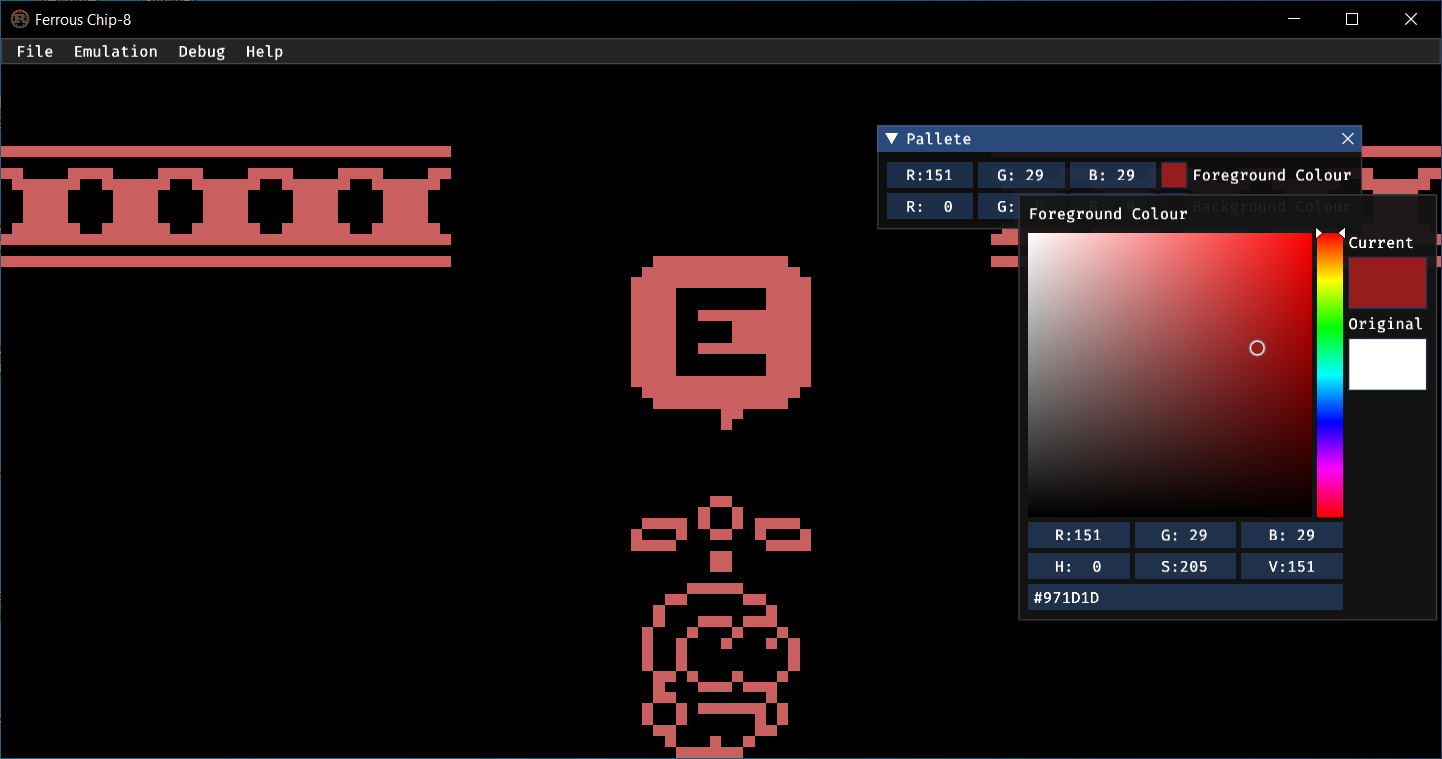
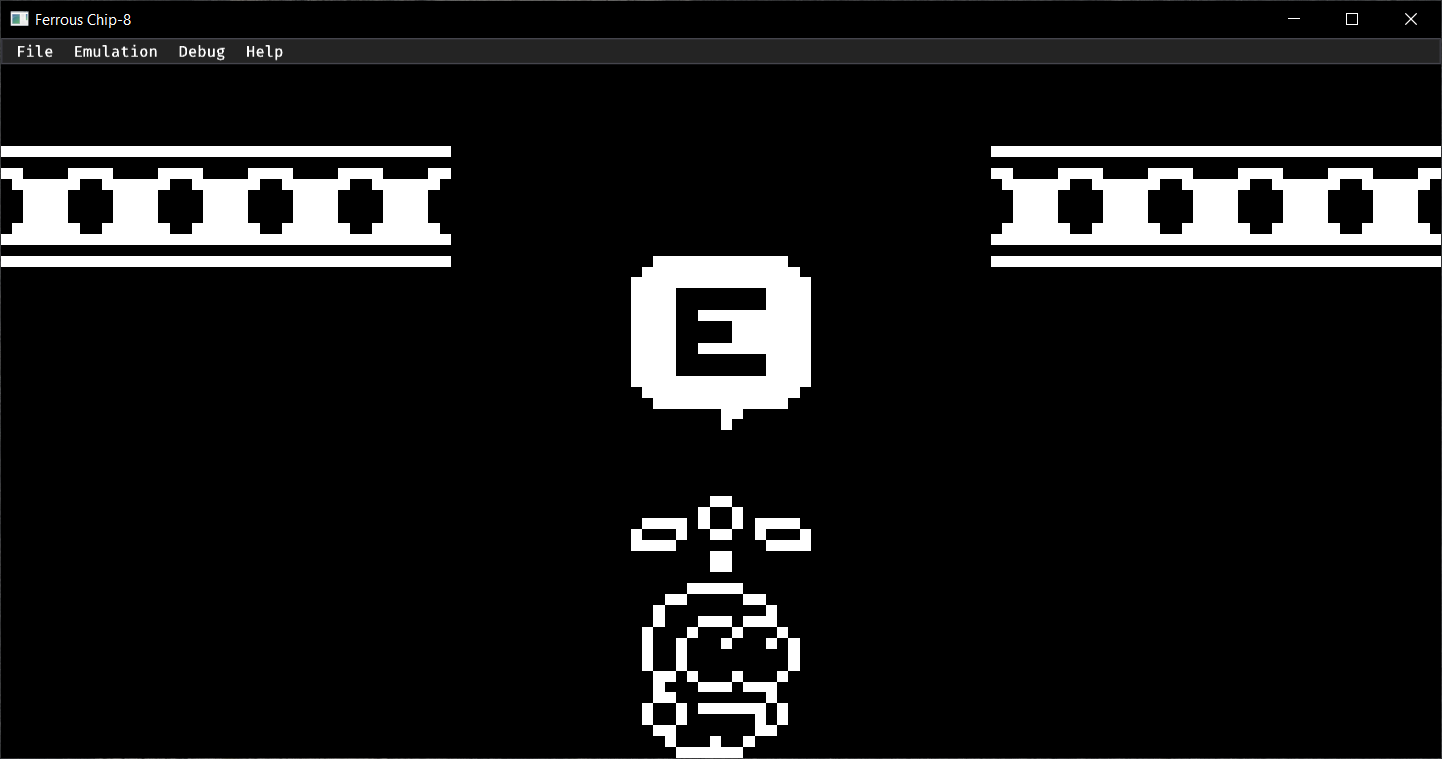
Update README images

diff --git a/README.md b/README.md
@@ -2,8 +2,8 @@
 
 Ferrous is a (super) Chip-8 interpreter written in Rust.
 
-<img src="./README/sweetcopter.png" width="600" /> &nbsp;
-<img src="./README/debugger.png" width="600" /> &nbsp;
+<img src="./README/Sweetcopter.png" width="600" /> &nbsp;
+<img src="./README/Snake.png" width="600" /> &nbsp;
 
 ## Installation
 
